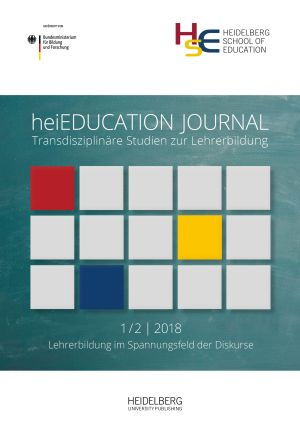
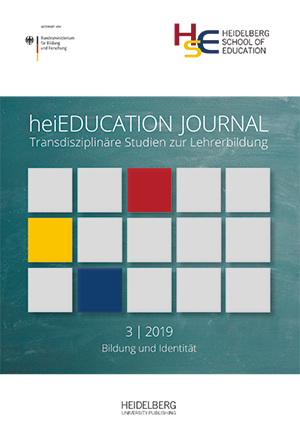
Startseite: heiducation-Ausgabe eingstellt; Journal-Übersichtsseite und Einzelseite heieducation

diff --git a/views/home/index.html b/views/home/index.html
@@ -112,6 +112,19 @@ $('.flexslider').flexslider();
         <div class="col-lg-12">
           <div class="row">
 		  
+		    <div class="col-lg-3">
+               <div class="box">
+                <div class="box-gray aligncenter">
+                <h4>{{=T('New Titles')}}</h4> 
+					       <a href="https://heiup.uni-heidelberg.de/journals/index.php/heied/issue/view/2387" title="{{=T('View Journal')}}">{{=IMG(_src=URL(myconf.take('web.application'),'static','images/journals/heideducation.jpg'),_alt='',_style='width:145px', _class='bildrahmen')}}</a> 
+                  </div>
+                  <div class="box-bottom"><a href="https://heiup.uni-heidelberg.de/journals/index.php/heied/issue/view/2387" title="{{=T('View Journal')}}">{{=T('More Information')}}</a>
+                  </div>
+                </div>
+            </div>
+
+
+
 		  <div class="col-lg-3">              
                 <div class="box">
                   <div class="box-gray aligncenter">
@@ -123,21 +136,6 @@ $('.flexslider').flexslider();
                 </div>
           </div> 
 		  
-		    <div class="col-lg-3">
-               <div class="box">
-                <div class="box-gray aligncenter">
-                <h4>{{=T('New Titles')}}</h4> 
-					       <a href="https://heiup.uni-heidelberg.de/journals/index.php/religions/issue/view/2388" title="{{=T('View Journal')}}">{{=IMG(_src=URL(myconf.take('web.application'),'static','images/journals/religions.png'),_alt='',_style='width:145px', _class='bildrahmen')}}</a> 
-                  </div>
-                  <div class="box-bottom"><a href="https://heiup.uni-heidelberg.de/journals/index.php/religions/issue/view/2388" title="{{=T('View Journal')}}">{{=T('More Information')}}</a>
-                  </div>
-                </div>
-            </div>
-		  
-      
-      
-        
-
 		  
             <div id="boxAktuelles" class="col-lg-6">
               <div class="box">
@@ -186,6 +184,19 @@ $('.flexslider').flexslider();
               </div>
             </div>	
 
+
+		    <div class="col-lg-3">
+               <div class="box">
+                <div class="box-gray aligncenter">
+                <h4>{{=T('New Titles')}}</h4> 
+					       <a href="https://heiup.uni-heidelberg.de/journals/index.php/religions/issue/view/2388" title="{{=T('View Journal')}}">{{=IMG(_src=URL(myconf.take('web.application'),'static','images/journals/religions.png'),_alt='',_style='width:145px', _class='bildrahmen')}}</a> 
+                  </div>
+                  <div class="box-bottom"><a href="https://heiup.uni-heidelberg.de/journals/index.php/religions/issue/view/2388" title="{{=T('View Journal')}}">{{=T('More Information')}}</a>
+                  </div>
+                </div>
+            </div>
+            
+            
           <div class="col-lg-3">              
                 <div class="box">
                   <div class="box-gray aligncenter">
@@ -207,28 +218,6 @@ $('.flexslider').flexslider();
                   </div>
                 </div>
          </div>
-
-          <div class="col-lg-3">
-               <div class="box">
-                <div class="box-gray aligncenter">
-                <h4>{{=T('New Titles')}}</h4> 
-					       <a href="https://heiup.uni-heidelberg.de/journals/index.php/heso/issue/view/2382/" title="{{=T('View Journal')}}">{{=IMG(_src=URL(myconf.take('web.application'),'static','images/journals/cover_heso.jpg'),_alt='',_style='width:145px', _class='bildrahmen')}}</a> 
-                  </div>
-                  <div class="box-bottom"><a href="https://heiup.uni-heidelberg.de/journals/index.php/heso/issue/view/2382" title="{{=T('View Journal')}}">{{=T('More Information')}}</a>
-                  </div>
-                </div>
-            </div>
-          
-          
-
-
-            
-		      
-
-
-
-
-        
 
                              
                 <!--<div>-->
@@ -265,9 +254,9 @@ $('.flexslider').flexslider();
                <div class="box">
                 <div class="box-gray aligncenter">
                 <h4>{{=T('New Titles')}}</h4> 
-					       <a href="https://heiup.uni-heidelberg.de/journals/index.php/rupertocarola/issue/view/2383" title="{{=T('View Journal')}}">{{=IMG(_src=URL(myconf.take('web.application'),'static','images/campusmedia/cover_13_2018-2.jpg'),_alt='',_style='width:145px', _class='bildrahmen')}}</a> 
+					       <a href="https://heiup.uni-heidelberg.de/journals/index.php/heso/issue/view/2382/" title="{{=T('View Journal')}}">{{=IMG(_src=URL(myconf.take('web.application'),'static','images/journals/cover_heso.jpg'),_alt='',_style='width:145px', _class='bildrahmen')}}</a> 
                   </div>
-                  <div class="box-bottom"><a href="https://heiup.uni-heidelberg.de/journals/index.php/rupertocarola/issue/view/2383" title="{{=T('View Journal')}}">{{=T('More Information')}}</a>
+                  <div class="box-bottom"><a href="https://heiup.uni-heidelberg.de/journals/index.php/heso/issue/view/2382" title="{{=T('View Journal')}}">{{=T('More Information')}}</a>
                   </div>
                 </div>
             </div>

diff --git a/views/journals/index.html b/views/journals/index.html
@@ -83,7 +83,7 @@
         <div class="col-lg-2">      
           <article>        
             <div class="post-image">            
-              <img alt="" src="https://heiup.uni-heidelberg.de/journals/public/journals/155/cover_issue_2379_de_DE.jpg">        
+              <img alt="" src="https://heiup.uni-heidelberg.de/journals/public/journals/155/cover_issue_2387_de_DE.jpg">        
             </div>      
           </article>    
         </div>    

diff --git a/views/journals/heied.html b/views/journals/heied.html
@@ -8,7 +8,7 @@
             <div class="col-lg-3">
                 <article>
                     <div class="post-image">
-		 	<img src="https://heiup.uni-heidelberg.de/journals/public/journals/155/cover_issue_2379_de_DE.jpg">
+		 	<img src="https://heiup.uni-heidelberg.de/journals/public/journals/155/cover_issue_2387_de_DE.jpg">
                   </div>
 
                 </article>
